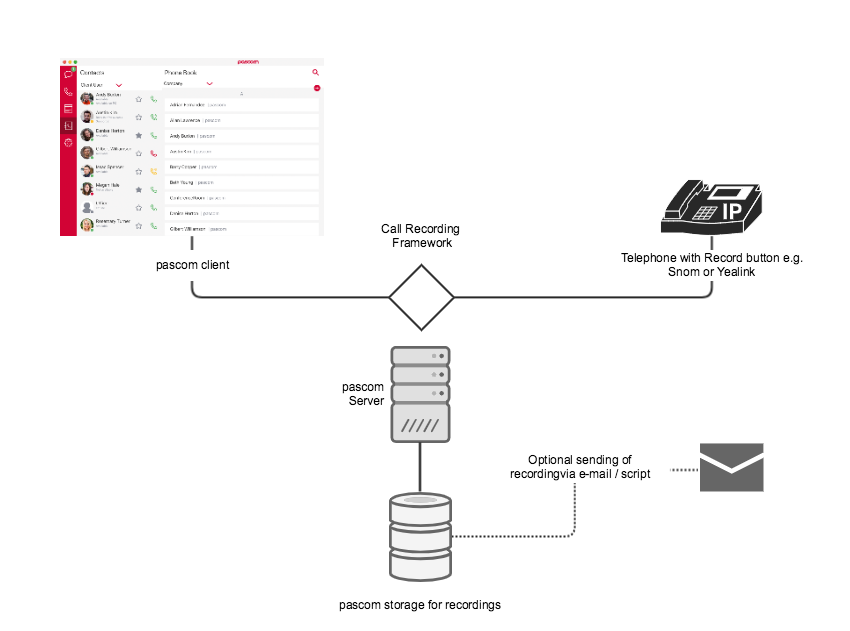
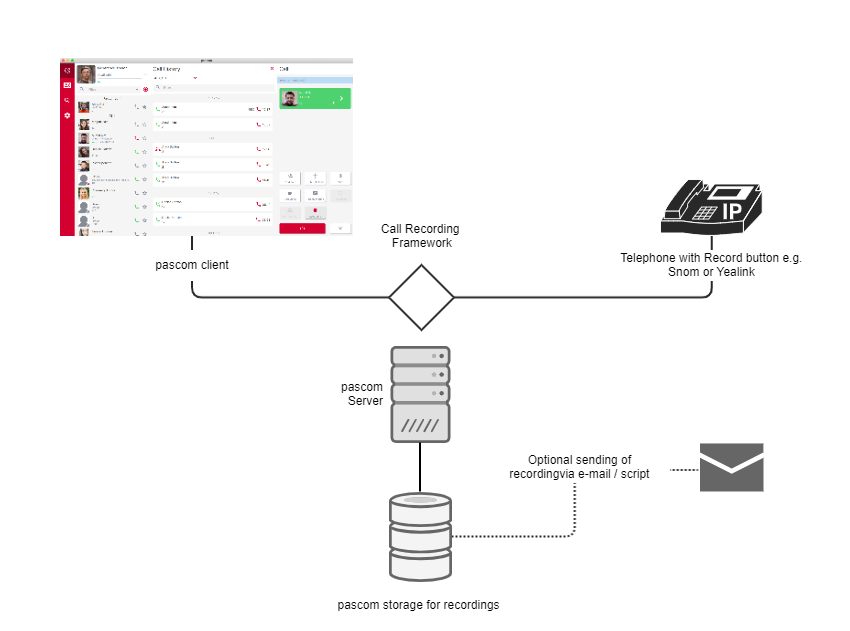
PM-1491 Update monitoring/recording documentation

diff --git a/site/content/modules/recording/_index.de.md b/site/content/modules/recording/_index.de.md
@@ -11,52 +11,53 @@ weight: 30
 ## Übersicht
 
 {{% notice warning %}}
-Das Mitschneiden von Gesprächen kann rechtlich problematisch, in speziellen Fällen sogar strafbar sein. Es müssen je nach Szenario bestimmte Rahmenbedingungen, Datenschutzrichtlinien und Hinweispflichten erfüllt werden. Bitte lassen Sie sich im Zweifel vor der Verwendung dieser Funktion durch einen Rechtsbeistand beraten.
+Das Mitschneiden von Gesprächen kann rechtlich problematisch, in speziellen Fällen, sogar strafbar sein. Es müssen je nach Szenario bestimmte Rahmenbedingungen, Datenschutzrichtlinien und Hinweispflichten erfüllt werden. Bitte lassen Sie sich im Zweifel vor der Verwendung dieser Funktion durch einen Rechtsbeistand beraten.
 {{% /notice %}}
 
-Das Mitschnitt System basiert auf einem in der pascom hinterlegtem Regelwerk. Dieses Regelwerk veranlasst pascom entweder dazu ein bestimmtes Gespräch automatisch mitzuschneiden oder dem Benutzer einen manuellen Mitschnitt zu erlauben. 
+Das Mitschnittsystem basiert auf einem in der pascom hinterlegten Regelwerk. Dieses Regelwerk veranlasst pascom dazu, ein bestimmtes Gespräch automatisch mitzuschneiden oder dem Benutzer einen manuellen Mitschnitt zu erlauben. 
 
 ![Illustration - pascom Mitschnitt System](concept.de.png?width=100% "pascom Mitschnitt System")
 
-Egal ob sie manuell oder automatisch erfolgen, die Mitschnitte werden auf der Festplatte der pascom abgelegt und können bei berechtigten Personen im Classic Client angezeigt werden. Optional können Mitschnitte per Regelwerk an beliebige E-Mail-Empfänger versendet oder per Skript auf beliebige Ziele kopiert werden.
+Egal ob Mitschnitte manuell oder automatisch erfolgen, diese werden auf der Festplatte der pascom abgelegt und können bei berechtigten Personen im pascom Client angezeigt werden. Optional können Mitschnitte per Regelwerk an beliebige E-Mail-Empfänger versendet oder per Skript auf beliebige Ziele kopiert werden.
 
 ## Konfiguration
 
 ### Regelwerk
-Um das Mitschnitt System zu aktivieren müssen Sie mindestens eine Regel anlegen die entweder bestimmte Gespräche automatisch mitschneidet oder einem gewissen Nutzerkreis erlaubt manuell einen Mitschnitt anzustoßen. Gegen Sie hierzu in der pascom Weboberfläche in das Menü {{< ui-button "Erweitert" >}} > {{< ui-button "Mitschnitte" >}} und fügen dort durch Drücken der Schaltfläche {{< ui-button "+Hinzufügen" >}}  eine neue Regel ein:
-![Screenshot - Mitschnitt Regeln](rules.de.png?width=100% "Mitschnitt Regeln verwalten")
+Um das Mitschnittsystem zu aktivieren müssen Sie mindestens eine Regel anlegen, die entweder bestimmte Gespräche automatisch mitschneidet oder einem gewissen Nutzerkreis erlaubt manuell einen Mitschnitt anzustoßen. Gehen Sie hierzu in der pascom Weboberfläche in das Menü {{< ui-button "Erweitert" >}} > {{< ui-button "Mitschnitte" >}} und fügen dort durch Drücken der Schaltfläche {{< ui-button "+Hinzufügen" >}}  eine neue Regel ein:  
+
+![Screenshot - Mitschnitt Regeln](rules.de.png?width=80% "Mitschnitt Regeln verwalten")  
 
 |Parameter|Bedeutung|
 |---------|---------|
 |Bezeichnung|Bezeichnung der Regel|
 |Regel aktiv|Hier kann die Regel aktiviert und deaktiviert werden|
-|Wer darf aufnehmen?|**pascom nimmt automatisch auf** bewirkt, dass pascom jedes Gespräch automatisch mitschneidet das von unter **Was wird mitgeschnitten?** gewählten Rollenmitgliedern geführt wird. **Gesprächspartner dürfen manuell mitschneiden bewirkt,** dass die unter **Was wird mitgeschnitten?** gewählten Rollenmitglieder per Classic Client oder per Record Taste am Telefon Gespräche manuell mitschneiden dürfen.|
+|Wer darf aufnehmen?|**pascom nimmt automatisch auf** bewirkt, dass jedes Gespräch automatisch mitgeschnitten wird, welches von den unter **Was wird mitgeschnitten?** gewählten Rollenmitgliedern geführt wird. **Gesprächspartner dürfen manuell mitschneiden** bewirkt, dass die unter **Was wird mitgeschnitten?** gewählten Rollenmitglieder per pascom Client oder per Record Taste am Telefon Gespräche manuell mitschneiden dürfen.|
 |Was wird aufgenommen?|	Das Aufnahmeziel ist rollenbasiert. Wählen Sie eine Rolle aus. Alle Mitglieder dieser Rolle, egal ob Benutzer oder ganze Teams, werden aufgenommen. Die Rolle braucht keinen speziellen Rollentyp sondern dient rein zur Gruppierung. Details zu Rollen finden Sie unter Konzept: Rollen.|
 |Rufrichtung|	Nur eingehende, ausgehende oder Telefonate in beide Richtungen mitschneiden|
 |Herkunft|	Nur interne, externe oder beide Gesprächsarten mitschneiden|
-|Versandart	|Alle Mitschnitte werden standardmäßig auf der Festplatte gespeichert und können per Classic Client abgefragt werden. Zusätzlich kann man jeden Mitschnitt an eine beliebige E-Mail Adresse versehen oder eine Bash-Skript erstellen das z. B. den Mitschnitt auf einen externen Fileserver kopiert. Der Versand wir durch einen Cronjob geregelt der standardmäßig nur einmal täglich um 20 Uhr ausgeführt wird. Details siehe **Conjob für Mitschnittsystem** weiter unten.|
+|Versandart	|Alle Mitschnitte werden standardmäßig auf der Festplatte gespeichert und können per pascom Client abgefragt werden. Zusätzlich kann man jeden Mitschnitt an eine beliebige E-Mail Adresse versehen oder eine Bash-Skript erstellen das z. B. den Mitschnitt auf einen externen Fileserver kopiert. Der Versand wir durch einen Cronjob geregelt der standardmäßig nur einmal täglich um 20 Uhr ausgeführt wird. Details siehe **Conjob für Mitschnittsystem** weiter unten.|
 
 ### Versandart Bash Skript
-Wird die Versandart Bash Skript gewählt wird ein Bash-Editor eingeblendet in man das gewünschte Skript direkt eingeben kann. Das Skript wird nach jedem Mitschnitt aufgerufen und es werden folgende Parameter übergeben die dann in den Variablen **$1** und **$2** abgerufen werden können:
+Wird die Versandart Bash Skript gewählt wird ein Bash-Editor eingeblendet in den man das gewünschte Skript direkt eingeben kann. Das Skript wird nach jedem Mitschnitt aufgerufen und es werden folgende Parameter übergeben, die dann in den Variablen **$1** und **$2** abgerufen werden können:
 
-|Variable|Inhalt|Beschreibung|Beispiel|
-|--------|------|------------|--------|
-|$1|	/absoluter/pfad/zu/aufnahme.wav |	Der Dateiname inkl. Pfad zum eben erzeugten Mitschnitt|	/var/spool/asterisk/monitor/na_1392064129-3_1392064129-10_29_001.wav|
-|$2|	/absoluter/pfad/zum/journal.json|	Der Dateiname inkl. Pfad zur json Datei für diesen Mitschnitt.| Darin befinden sich Metainformationen wie z. B. Gesprächsteilnehmer, Dauer, usw. des Mitschnittes|	/var/spool/asterisk/monitor/n_1392064129-3_1392064129-10.json|
+|Variable|Inhalt|Beispiel|
+|--------|------|--------|
+|$1|	/absoluter/pfad/zu/aufnahme.wav |/var/spool/asterisk/monitor/na_1392064129-3_1392064129-10_29_001.wav|
+|$2|	/absoluter/pfad/zum/journal.json| Darin befinden sich Metainformationen wie z. B. Gesprächsteilnehmer, Dauer, usw. des Mitschnittes|	/var/spool/asterisk/monitor/n_1392064129-3_1392064129-10.json|
 
 ### Cronjob für Mitschnittsystem
 
-Für den Versand der Mitschnitte per E-Mail oder Skript und das Bereinigen der Festplatte (siehe Festplattenspeicher verwalten) wird standardmäßig jeden Tag um 20 Uhr ein Cronjob ausgeführt. Alle Daten über den Versand werden zur Laufzeit im System gespeichert und dann während des Laufes des Cronjobs batchmäßg abgearbeitet.
+Für den Versand der Mitschnitte per E-Mail oder Skript und das Bereinigen der Festplatte (siehe Festplattenspeicher verwalten) wird standardmäßig jeden Tag um 20 Uhr ein Cronjob ausgeführt. Alle Daten über den Versand werden zur Laufzeit im System gespeichert und dann durch den Cronjob batchmäßg abgearbeitet.
 
-Dies gilt wirklich nur für den Versand der Mitschnitte per E-Mail oder Skript. Im Classic Client werden die Mitschnitte sofort nach Fertigstellung der Aufnahme angezeigt.
+Dies gilt wirklich nur für den Versand der Mitschnitte per E-Mail oder Skript. Im pasocm Client werden die Mitschnitte sofort nach Fertigstellung der Aufnahme angezeigt.
 
 Möchten Sie den Intervall des Cronjobs erhöhen, z. B. alle 15 Minuten die Mitschnitte per E-Mail versenden, können Sie dies unter {{< ui-button "Erweitert" >}} > {{< ui-button "Mitschnitte" >}} > {{< ui-button "Aktionen" >}} > {{< ui-button "Versand Automatisieren" >}}  bzw. {{< ui-button "Appliance" >}} > {{< ui-button "Cronjobs" >}} > {{< ui-button "Mitschnitte" >}} verarbeiten anpassen.
 
 
-### Festplattenspeicher verwalten
-Alle Mitschnitte, ob manuell oder automatisch, werden in jedem Fall zentral auf der Festplatte der pascom gespeichert. Für eine Minute Mitschnitt wird auf der Festplatte ca. 1 Megabyte belegt. Wenn Sie beispielsweise das Supportteam aus Trainingszwecken permanent mitschneiden wollen und in dieser Abteilung 4 Personen ca. jeweils 3 Stunden am Tag telefonieren wächst der Festplattenbedarf pro Tag um 720 Megabyte an. Dimensionieren Sie also den verfügbaren Festplattenspeicher entsprechend.
+### Festplattenspeicher verwalten (nur Onsite)
+Alle Mitschnitte, ob manuell oder automatisch, werden zentral auf der Festplatte der pascom gespeichert. Für eine Minute Mitschnitt wird auf der Festplatte ca. 1 Megabyte belegt. Wenn Sie beispielsweise das Supportteam aus Trainingszwecken permanent mitschneiden wollen und in dieser Abteilung 4 Personen ca. jeweils 3 Stunden am Tag telefonieren wächst der Festplattenbedarf pro Tag um 720 Megabyte an. Dimensionieren Sie also den verfügbaren Festplattenspeicher entsprechend.
 
-Um das Überlaufen der Festplatte zu verhindern heben wir alle Mitschnitte standardmäßig nur 90 Tage auf. Die Einstellung können Sie in der pascom Weboberfläche unter {{< ui-button "Appliance" >}} > {{< ui-button "Systemeinstellungen" >}} anpassen. In der Baumstruktur finden Sie unter `sys.monitor.configure.monitorcron` den Parameter **expiration**. Dieser ist auf 90 Tage gesetzt und kann beliebig angepasst werden.
+Um das Volllaufen der Festplatte zu verhindern, werden alle Mitschnitte standardmäßig nur 90 Tage archiviert. Die Einstellung können Sie in der pascom Weboberfläche unter {{< ui-button "Appliance" >}} > {{< ui-button "Systemeinstellungen" >}} anpassen. In der Baumstruktur finden Sie unter `sys.monitor.configure.monitorcron` den Parameter **expiration**. Dieser ist auf 90 Tage gesetzt und kann beliebig angepasst werden.
 
 ### Mitschnitt per Variable steuern
 Zusätzlich bietet pascom die Möglichkeit das Mitschnittsystem dynamisch per Dialplan Variablen ein- und auszuschalten bzw. bestehende Regeln zu übergeben.
@@ -66,10 +67,17 @@ Beispielsweise kann es der Fall sein, dass Sie Ihrem Anrufer ein IVR Menü anbie
 Vom Dialplan aus kann man das Mitschnittsystem bei Bedarf durch die Variable `MDC_MON_MODE` beeinflussen:
 
 #### Beim Rufaufbau **MDC_MON_MODE** setzen
-* MDC_MON_MODE nicht definiert oder Wert=auto: Regelwerk greift, s.u. **DEFAULT**
-* MDC_MON_MODE=force Dieser Anruf wird in **jedem** Fall aufgenommen (Regelwerk überspringen)
-* MDC_MON_MODE=deny Dieser Anruf wird in **keinem** Fall aufgenommen (Regelwerk überspringen)
-* MDC_MON_MODE=manual Regelwerk wird übersprungen, Manuelle Aufnahme wird ermöglicht
+
+|Variable|Beschreibung|
+|--------|------------|
+|MDC_MON_MODE|nicht definiert oder Wert=auto: Regelwerk greift, s.u. **DEFAULT**|
+|MDC_MON_MODE=force|Dieser Anruf wird in **jedem** Fall aufgenommen (Regelwerk übergehen)|
+|MDC_MON_MODE=deny|Dieser Anruf wird in **keinem** Fall aufgenommen(Regelwerk übergehen)|
+|MDC_MON_MODE=manual|Regelwerk wird übersprungen, Manuelle Aufnahme wird ermöglicht|
+|MDC_MON_MODE=caller|Nimmt nur den Anrufer auf|
+|MDC_MON_MODE=callee|Nimmt nur den Gesprächsteilnehmer auf|
+|MDC_MON_MODE=splited|Nimmt Anrufer und Gesprächsteilnehmer auf, jedoch jeweils in separaten Dateien |
+
 
 Ein Beispielskript zum Abschalten des Recordings kann so aussehen:
 
@@ -78,16 +86,16 @@ Ein Beispielskript zum Abschalten des Recordings kann so aussehen:
 
 Dieses Skript kann dann in ein IVR Menü eingebunden werden und den Mitschnitt deaktivieren.
 
-### Record Taste am SNOM Telefon konfigurieren
-Manche SNOM Telefone (3er Serie) haben eine eigene Record-Taste. Diese Taste belegt pascom automatisch mit der korrekten URL für die Steuerung des Mitschnitt Systems. Auf SNOM Telefonen die keine extra Record-Taste besitzen können Sie eine beliebige andere Taste umfunktionieren.
+### Record Taste am Telefon konfigurieren
+Manche Telefone haben eine eigene Record-Taste. Diese Taste belegt pascom automatisch mit der korrekten URL für die Steuerung des Mitschnittsystems. Bei Telefonen die keine extra Record-Taste besitzen, können Sie eine beliebige andere Taste umfunktionieren.
 
 #### Zentrale Verteilung der Tasteneinstellung
-Am einfachsten erledigen Sie das zentral durch das Provisioning System und weisen dort einer Taste diese Wert zu:
+Am einfachsten erledigen Sie das Zentral durch das Provisioning System und weisen dort einer Taste diesen Wert zu:
 
     url http://$httpip/mobydickcmd/provisioning/snom/snom-record.php?mac=$071ipp_mac&sipcallid=$call-id
 
 #### Tasteneinstellung direkt individuell am Telefon
-Alternativ können Sie auch die folgende URL direkt auf einer Telefon-Taste von Typ Aktions URL eintragen, wobei Sie **PASCOM_SERVER_IP** mit der konkreten **IP-Adresse** des pascom-Servers ersetzen müssen:
+Alternativ können Sie auch die folgende URL direkt auf einer Telefon-Taste vom Typ "Aktions URL" eintragen, wobei Sie **PASCOM_SERVER_IP** mit der konkreten **IP-Adresse** des pascom-Servers ersetzen müssen:
 
     http://PASCOM_SERVER_IP/provisioning/0004132cd0c5/pui/monitor/record?callid=$call-id
 
@@ -95,15 +103,28 @@ Beispiel:
 
     http://192.168.100.1/mobydickcmd/provisioning/snom/snom-record.php?mac=$mac&sipcallid=$call-id
 
-### Mitschnitte im mobydick Classic Client verwalten
-Erlaubt eine Regel dem Benutzer das manuelle Mitschneiden ist während des Gespräches ein roter Aufnahmeknopf im Classic Client sichtbar um den Mitschnitt zu starten:
-![Screenshot - Mitschnitt im Client](client_manual.de.png?width=100% "Mitschnitt im Client")
+### Mitschnitte im pascom Client verwalten
+Erlaubt eine Regel dem Benutzer das manuelle Mitschneiden ist während des Gespräches ein Aufnahmeknopf im pascom Client sichtbar um den Mitschnitt zu starten:  
 
-Alternativ können Mitschnitte am Telefon per Record-Taste gestartet werden.
+![Screenshot - Mitschnitte im pascom Client](client_manual.de.png?width=100% "Mitschnitte im pascom Client")
+
 Wurde ein Mitschnitt erstellt können Sie dies nachträglich am REC Kennzeichnung in Ihrem Journal einsehen:
+Durch Klicken auf das **REC** Symbol werden Ihnen alle Mitschnitte zu diesem Telefonat angezeigt:  
 
-Durch Klicken auf das **REC** Symbol werden Ihnen alle Mitschnitte zu diesem Telefonat angezeigt:
-![Screenshot - Journal im Classic Client](client_journal.de.png?width=100% "Journal im Classic Client")
+![Screenshot - Journal im pascom Client](client_journal.de.png?width=50% "Journal im pascom Client")
 
-Duch Klicken auf das Play Symbol können Sie den Mitschnitt direkt anhören und mit dem Download-Symbol herunterladen.
-![Screenshot - Mitschnitt Regeln](client_play.de.png?width=100% "Mitschnitt Regeln verwalten")
+Duch Klicken auf das Play Symbol können Sie den Mitschnitt direkt anhören und mit dem Download-Symbol herunterladen.  
+
+![Screenshot - Mitschnitte wiedergeben](client_play.de.png?width=100% "Mitschnitte wiedergeben")
+
+
+### Mitschnitte über die REST-Schnittstelle verwalten
+Über die REST-Schnittstelle können Sie diverse Abfragen und Parameter zum Monitoring setzen sowie Gesprächsmitschnitte herunterladen.
+Nachfolgend eine URL, die mit Ihren Parametern angepasst werden muss. 
+
+- https://$ip/$instance/services/monitor/r_$recordID/$ruleID/1/wav -> Anrufer Gesprächsdatei
+- https://$ip/$instance/services/monitor/t_$recordID/$ruleID/1/wav -> Teilnehmer Gesprächsdatei
+
+Über die Interaktive REST Dokumentation der pascom Anlage, können Sie Abfragen testen und entsprechend anpassen. 
+
+![Screenshot - Mitschnitte über REST](REST.png?width=100% "Mitschnitte per REST")

diff --git a/site/content/modules/recording/_index.en.md b/site/content/modules/recording/_index.en.md
@@ -16,7 +16,7 @@ The recording of calls can be legally problematic, and in certain cases even a c
 
 The recording system is based one of the many frameworks existing within pascom phone systems. This framework enables your pascom phone system to automatically record calls or to allow an user to manually start a recording.
 
-![Illustration - pascom Call Recording System](concept.en.png?width=60% "pascom Call Recording System")
+![Illustration - pascom Call Recording System](concept.en.png?width=100% "pascom Call Recording System")
 
 Regardless of whether the recordings are manually or automatically initiated, they will be stored on the pascom HardDisk and be displayed to permitted users within the Classic Client. An additional option is for the recordings to be sent via the rule framework to any number of e-mail recipients or copied via script to any destination.
 
@@ -40,10 +40,10 @@ In order to activate the recording system, you must have created at least one ru
 ### Dispatch Mode: Bash Script
 If the dispatch mode Bash script is selected, then a Bash-Editor into which one can enter the desired script will appear. The script will then be call up after every recording and the following parameters will be passed on, which can then be called up in the Variables  **$1** and **$2**:
 
-|Variable|Content|Description|Example|
-|--------|------|------------|--------|
-|**$1**|   /absolute/path/to/recording.wav  | The File name incl. of path to the corresponding generate recording|   /var/spool/asterisk/monitor/na_1392064129-3_1392064129-10_29_001.wav|
-|**$2**|   /absolute/path/to/journal.json|    The File name incl. of path to json file for this recording. Contained within it the recording meta information such as, Call participants, Call Length etc|   /var/spool/asterisk/monitor/n_1392064129-3_1392064129-10.json|
+|Variable|Content|Example|
+|--------|-------|-------|
+|**$1**|   /absolute/path/to/recording.wav  |/var/spool/asterisk/monitor/na_1392064129-3_1392064129-10_29_001.wav|
+|**$2**|   /absolute/path/to/journal.json|/var/spool/asterisk/monitor/n_1392064129-3_1392064129-10.json|
 
 ### Cronjob for Recording System
 
@@ -53,7 +53,7 @@ This really only applies for the sending of recordings via e-mail or script. In 
 
 Should you need to, you can increase the frequency of the Cronjob execution (e.g. send the recordings every 15 Minutes) this can be modified under the {{< ui-button "Advanced" >}} > {{< ui-button "Recordings" >}} > {{< ui-button "Action" >}} > {{< ui-button "Automate Dispatch" >}} or alternatively {{< ui-button "Appliance" >}} > {{< ui-button "Cron jobs" >}} > {{< ui-button "Recordings" >}}.
 
-### HardDisk Memory Management
+### HardDisk Memory Management (Onsite only)
 Every recording, regardless of whether it was automatically or manually created, will be stored centrally on the pascom HardDisk.  A recording that took 1 minute, will require approx. 1 MB of memory. So should you for example for training purposes need to continuously record the support team, which consists of 4 people who are on the phone for ca. 3 hrs per day, the recordings will require approximately 720 MB of HardDisk space, therefore, please ensure that you have sized your HardDisk memory accordingly.
 
 In order to prevent the overflow of the HardDisk, we have setup the system so that it removes all recordings after 90 days as standard. This setting can be modified through using the pascom Web UI under {{< ui-button "Applaince" >}} > {{< ui-button "System Settings" >}}. Within the tree structure, you will find the **expiration** parameter under **sys.monitor.configure.monitorcron**, which has been set to 90 days but can be modified to any time period
@@ -68,10 +68,15 @@ To this end, the DialPlan can be influenced according to needs through using the
 
 #### Setting MDC_MON_MODE Variable in the Call Setup
 
-* MDC_MON_MODE not defined or Value=auto: Rule Framework accessed , (see below). **DEFAULT**
-* MDC_MON_MODE=force This call will be recorded in every scenario (Skips Rule Framework )
-* MDC_MON_MODE=deny This call will **not** be recorded under **any** circumstances (Skips Rule Framework )
-* MDC_MON_MODE=manual Rule Framework will be skipped, manual recording will be enabled
+|Variable|Beschreibung|
+|--------|------------|
+|MDC_MON_MODE|not defined or Value=auto: Rule Framework accessed , (see below). **DEFAULT**|
+|MDC_MON_MODE=force|This call will be recorded in **every** scenario (Skips Rule Framework )|
+|MDC_MON_MODE=deny|This call will **not** be recorded under **any** circumstances (Skips Rule Framework )|
+|MDC_MON_MODE=manual|Rule Framework will be skipped, manual recording will be enabled|
+|MDC_MON_MODE=caller|records only caller voice|
+|MDC_MON_MODE=callee|records only callee voice|
+|MDC_MON_MODE=splited|records caller and callee but stores streams in separate files|
 
 An example script for the blocking of call recordings could appear somewhat like:
 
@@ -80,9 +85,9 @@ An example script for the blocking of call recordings could appear somewhat like
 
 This script could be then be linked into the IVR Menu and thus through being selected deactivate the Recording function.
 
-### Configure Record Button on SNOM Telephones
+### Configure Record Button on Telephones
 
-Many SNOM Telephones (3 Series) have a record button, which will be, through pascom, automatically provided with the correct URL for controlling the Recording System. On SNOM Handsets that do not have an additional recording button, you can repurpose any button to control this function.
+Many Telephones have a record button, which will be, through pascom, automatically provided with the correct URL for controlling the Recording System. On Handsets that do not have an additional recording button, you can repurpose any button to control this function.
 
 #### Central Distribution of Button Settings
 
@@ -106,13 +111,25 @@ Allows a user who is through a rule permitted to manually record, and during a c
 
 ![Screenshot - Call Recordings in the client](client_manual.en.png?width=80% "Recordings in the client")
 
-Alternatively recordings can also be started via the Record Button on your Telephone.
+
 Should a recording have been made, you can access it retrospectively from your Journal through the REC symbol:
+Through clicking on the **REC** Symbol all the recordings from this Call will be then be displayed:  
 
-Through clicking on the **REC** Symbol all the recordings from this Call will be then be displayed:
-![Screenshot - Call history in classic client](client_journal.en.png?width=80% "Call history in classic client")
+![Screenshot - Call history in classic client](client_journal.en.png?width=50% "Call history in classic client")
 
-Through clicking on the Play Symbol you can listen to the recording directly from your client as well as being able to download it via the download symbol.
-![Screenshot - Recording Rules](client-play.en.png?width=80% "Manage recording rules")
+Through clicking on the Play Symbol you can listen to the recording directly from your client as well as being able to download it via the download symbol.  
 
-<!--FixMe new recording images-->
+![Screenshot - Recording Rules](client_play.en.png?width=80% "Manage recording rules")
+
+### Manage Recordings via REST API
+
+Via the REST Interface, you can set various queries and parameters for monitoring and downloading conversation recordings.
+Below is a example URL that needs to be adjusted with your parameters.
+
+- https://$ip/$instance/services/monitor/r_$recordID/$ruleID/1/wav -> Anrufer Gesprächsdatei
+- https://$ip/$instance/services/monitor/t_$recordID/$ruleID/1/wav -> Teilnehmer Gesprächsdatei
+
+
+Using the interactive REST documentation of the pascom system, you can test queries and adapt them accordingly.
+
+![Screenshot - Mitschnitte über REST](REST.png?width=100% "Mitschnitte per REST")
